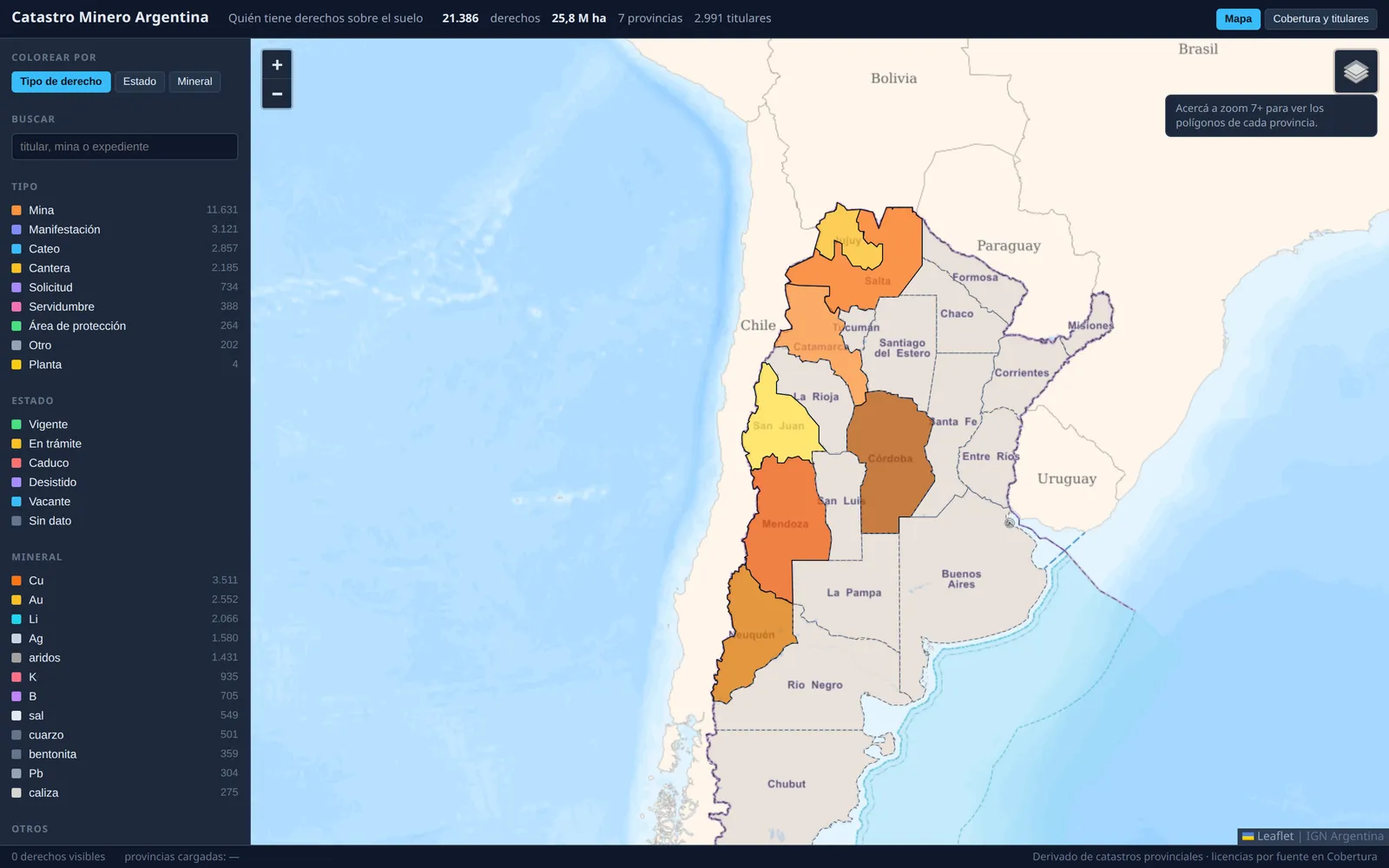
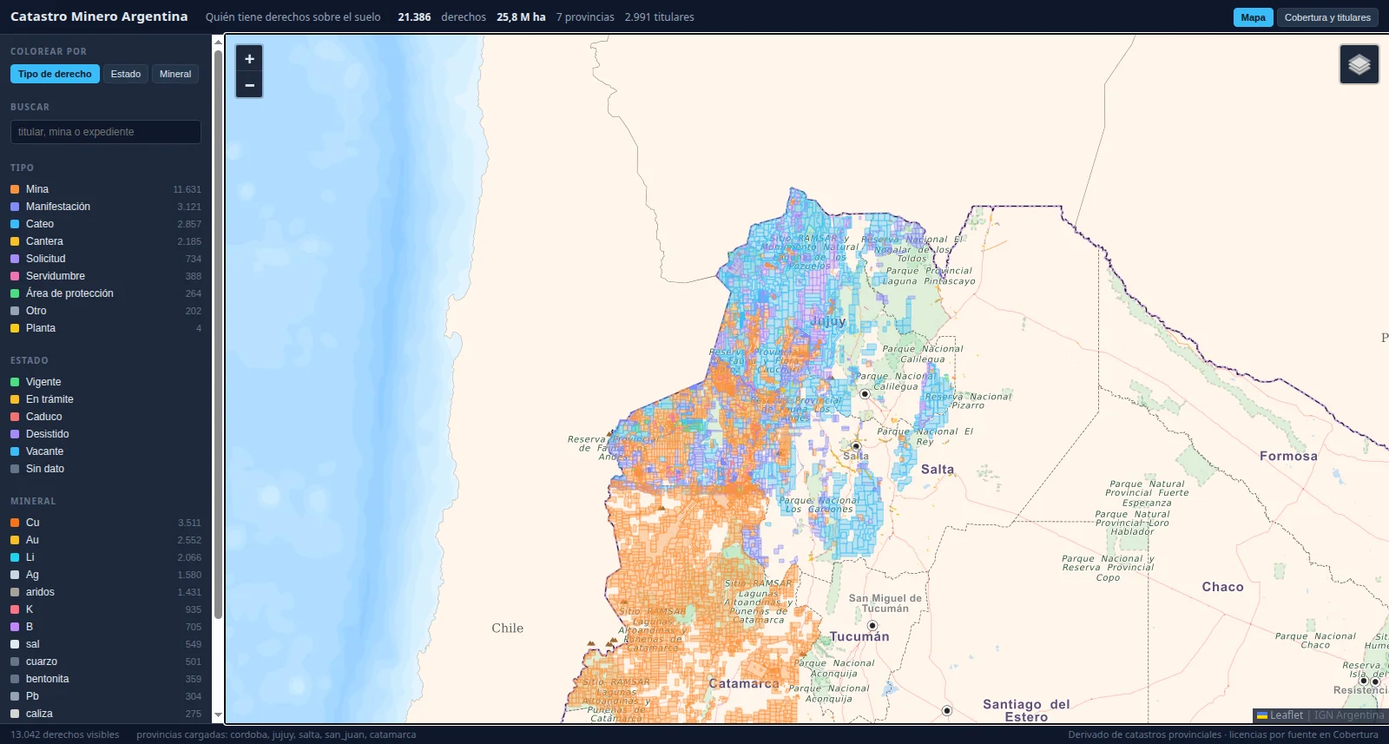
El catastro se muestra con el detalle que tiene, y con sus números de hoy
La captura pasa de la vista país sin polígonos al NOA con el detalle real
(Jujuy-Salta-Catamarca, 13,042 derechos visibles) — manejada por CDP puro
sobre el chromium cacheado, con zoom por rueda y paneo por drag. Los números
se ponen al día con la app: 7 provincias, 21,386 derechos, 25.8 M ha, 2,991
titulares (tarjeta, hero, tira de prueba del home y OG de minería).

La bio canónica suma el terreno: "cuatro de operación en Neuquén" y "lideré
equipos evaluando proyectos petroquímicos", en las 10 páginas y el canon de
la skill. Y BAISH entra a "Dónde mirar" del registro en los dos idiomas,
grupo Comunidad — la docena queda declarada.

diff --git a/src/pages/mineria.es.html b/src/pages/mineria.es.html
@@ -1,9 +1,9 @@
 <!--meta
 {
   "title": "Datos satelitales para minería — Matías Podeley",
-  "description": "Quién tiene derechos sobre el suelo en 6 provincias, blancos de exploración validados a ciegas, volumen excavado auditado por satélite y la obra de los salares de litio año por año. Cuatro casos en línea.",
+  "description": "Quién tiene derechos sobre el suelo en 7 provincias, blancos de exploración validados a ciegas, volumen excavado auditado por satélite y la obra de los salares de litio año por año. Cuatro casos en línea.",
   "ogImage": "/assets/og/mineria.es.png",
-  "ogImageAlt": "Minería: 19,671 derechos de seis provincias en un solo mapa",
+  "ogImageAlt": "Minería: 21,386 derechos de siete provincias en un solo mapa",
   "nav": "mineria"
 }
 -->
@@ -11,7 +11,7 @@
 <section class="hero wrap">
   <p class="kicker">Minería · Exploración y monitoreo · Datos satelitales</p>
   <h1>Quién tiene el suelo, dónde perforar, cuánta roca se movió</h1>
-  <p class="hero-sub">Cuatro herramientas para decidir antes de pagar: el catastro de seis provincias unificado en un mapa, blancos de exploración validados a ciegas, volumen excavado medido desde el espacio y la obra de los salares de litio año por año. Todo con el método a la vista, trazable hasta la fuente.</p>
+  <p class="hero-sub">Cuatro herramientas para decidir antes de pagar: el catastro de siete provincias unificado en un mapa, blancos de exploración validados a ciegas, volumen excavado medido desde el espacio y la obra de los salares de litio año por año. Todo con el método a la vista, trazable hasta la fuente.</p>
   <p class="hero-cta"><a class="btn btn--primary" href="mailto:matias@podeley.ar?subject=Consulta%20Miner%C3%ADa%20%E2%80%94%20podeley.ar%2Fmineria&amp;body=Hola%20Matias%2C%0A%0A">Escribime</a> <a class="link-plain" href="#casos">Ver los casos <span class="arw">↓</span></a></p>
 </section>
 
@@ -28,8 +28,8 @@
     <article class="card">
       <figure class="shot"><img src="/assets/shots/catastro-minero-argentina.webp" width="1600" height="1000" loading="lazy" decoding="async" alt="Captura: mapa nacional de derechos mineros por provincia"></figure>
       <h3><a href="https://mpodeley.github.io/catastro-minero-argentina/" target="_blank" rel="noopener">Saber quién tiene el suelo antes de mover una ficha</a></h3>
-      <p class="pitch">Argentina no tiene catastro minero nacional: cada provincia publica el suyo con formato distinto, y varias no publican nada. Esto unifica seis en un mapa — 19,671 derechos, 22 millones de hectáreas, 2,418 titulares — con el mineral y el expediente detrás de cada polígono. San Juan tiene el 66.4% de su territorio bajo derecho minero, y las provincias que no publican se dibujan como ausencia explícita, nunca como territorio libre.</p>
-      <p class="meta"><span class="proj">Catastros provinciales · 6 provincias · datos a 2026-07 · se actualiza</span><span class="tag t-status">Dataset abierto</span></p>
+      <p class="pitch">Argentina no tiene catastro minero nacional: cada provincia publica el suyo con formato distinto, y varias no publican nada. Esto unifica siete en un mapa — 21,386 derechos, 25.8 millones de hectáreas, 2,991 titulares — con el mineral y el expediente detrás de cada polígono. San Juan tiene el 66.4% de su territorio bajo derecho minero, y las provincias que no publican se dibujan como ausencia explícita, nunca como territorio libre.</p>
+      <p class="meta"><span class="proj">Catastros provinciales · 7 provincias · datos a 2026-08 · se actualiza</span><span class="tag t-status">Dataset abierto</span></p>
     </article>
 
     <article class="card">
@@ -89,7 +89,7 @@
   <div class="section-head">
     <p class="eyebrow">Quién está detrás</p>
   </div>
-  <p class="bio-text">Matías Podeley. Ingeniero del ITBA, dieciocho años en energía: simulé yacimientos gigantes como Camisea, respaldé compras de activos por más de US$ 300 millones y di clases de evaluación de proyectos durante cinco años. Estas herramientas las construyo yo, con IA y fuentes auditables; lo que mejor me sale es ponerlas a trabajar con tu equipo. Buenos Aires.</p>
+  <p class="bio-text">Matías Podeley. Ingeniero del ITBA, dieciocho años en energía: cuatro de operación en Neuquén, simulé yacimientos gigantes como Camisea, lideré equipos evaluando proyectos petroquímicos, respaldé compras de activos por más de US$ 300 millones y di clases de evaluación de proyectos durante cinco años. Estas herramientas las construyo yo, con IA y fuentes auditables; lo que mejor me sale es ponerlas a trabajar con tu equipo. Buenos Aires.</p>
   <p class="aside-link">De dónde sale que un ingeniero de petróleo mire salares: <a href="/perfil/">perfil</a>.</p>
 </section>
 

diff --git a/src/pages/mineria.en.html b/src/pages/mineria.en.html
@@ -1,9 +1,9 @@
 <!--meta
 {
   "title": "Satellite data for mining — Matías Podeley",
-  "description": "Who holds mining title across 6 provinces, blind-validated exploration targets, satellite-audited excavated volume, and lithium salar buildout year by year. Four live cases.",
+  "description": "Who holds mining title across 7 provinces, blind-validated exploration targets, satellite-audited excavated volume, and lithium salar buildout year by year. Four live cases.",
   "ogImage": "/assets/og/mineria.en.png",
-  "ogImageAlt": "Mining: 19,671 claims from six provinces in a single map",
+  "ogImageAlt": "Mining: 21,386 claims from seven provinces in a single map",
   "nav": "mineria"
 }
 -->
@@ -11,7 +11,7 @@
 <section class="hero wrap">
   <p class="kicker">Mining · Exploration &amp; monitoring · Satellite data</p>
   <h1>Who holds the ground, where to drill, how much rock moved</h1>
-  <p class="hero-sub">Four tools for deciding before you pay: the mining cadastre of six provinces unified into one map, exploration targets blind-validated against known deposits, excavated volume measured from orbit, and lithium salar buildout year by year. All with the method left in the open, traceable to the source.</p>
+  <p class="hero-sub">Four tools for deciding before you pay: the mining cadastre of seven provinces unified into one map, exploration targets blind-validated against known deposits, excavated volume measured from orbit, and lithium salar buildout year by year. All with the method left in the open, traceable to the source.</p>
   <p class="hero-cta"><a class="btn btn--primary" href="mailto:matias@podeley.ar?subject=Mining%20inquiry%20%E2%80%94%20podeley.ar%2Fmineria&amp;body=Hi%20Matias%2C%0A%0A">Email me</a> <a class="link-plain" href="#casos">See the cases <span class="arw">↓</span></a></p>
 </section>
 
@@ -28,8 +28,8 @@
     <article class="card">
       <figure class="shot"><img src="/assets/shots/catastro-minero-argentina.webp" width="1600" height="1000" loading="lazy" decoding="async" alt="Screenshot: national map of mining tenements by province"></figure>
       <h3><a href="https://mpodeley.github.io/catastro-minero-argentina/" target="_blank" rel="noopener">Know who holds the ground before making a move</a></h3>
-      <p class="pitch">Argentina has no national mining cadastre: each province publishes its own in a different format, and several publish nothing at all. This unifies six into one map — 19,671 tenements, 22 million hectares, 2,418 holders — with the mineral and the file number behind every polygon. San Juan has 66.4% of its territory under mining title, and the provinces that publish nothing are drawn as explicit absence, never as open ground.</p>
-      <p class="meta"><span class="proj">Provincial cadastres · 6 provinces · data to 2026-07 · kept current</span><span class="tag t-status">Open dataset</span></p>
+      <p class="pitch">Argentina has no national mining cadastre: each province publishes its own in a different format, and several publish nothing at all. This unifies seven into one map — 21,386 tenements, 25.8 million hectares, 2,991 holders — with the mineral and the file number behind every polygon. San Juan has 66.4% of its territory under mining title, and the provinces that publish nothing are drawn as explicit absence, never as open ground.</p>
+      <p class="meta"><span class="proj">Provincial cadastres · 7 provinces · data to 2026-08 · kept current</span><span class="tag t-status">Open dataset</span></p>
     </article>
 
     <article class="card">
@@ -89,7 +89,7 @@
   <div class="section-head">
     <p class="eyebrow">Who's behind this</p>
   </div>
-  <p class="bio-text">Matías Podeley. An ITBA engineer, eighteen years in energy: I simulated giant fields like Camisea, backed asset purchases above US$ 300 million, and taught project appraisal for five years. I build these tools myself, with AI and auditable sources; what I do best is putting them to work with your team. Buenos Aires.</p>
+  <p class="bio-text">Matías Podeley. An ITBA engineer, eighteen years in energy — four of them in operations in Neuquén: I simulated giant fields like Camisea, led teams appraising petrochemical projects, backed asset purchases above US$ 300 million, and taught project appraisal for five years. I build these tools myself, with AI and auditable sources; what I do best is putting them to work with your team. Buenos Aires.</p>
   <p class="aside-link">Why a petroleum engineer ends up looking at salars: <a href="/en/perfil/">profile</a>.</p>
 </section>
 

diff --git a/src/pages/index.es.html b/src/pages/index.es.html
@@ -10,7 +10,7 @@
 <section class="hero wrap">
   <p class="kicker"><a class="link-plain" href="/perfil/">Matías Podeley</a> · Reservorios y desarrollo de negocio · Buenos Aires</p>
   <h1>El dato oficial tarda. Vos podés medirlo hoy</h1>
-  <p class="hero-sub">Soluciones y herramientas para energía y minería: diez están en línea, construidas con IA por un ingeniero con dieciocho años adentro de la industria, sobre fuentes que tu equipo puede auditar. Qué hizo la competencia mientras el registro oficial todavía no lo dice, quién tiene el suelo en seis provincias, cómo viene la red de gas esta mañana — y de dónde sale cada número.</p>
+  <p class="hero-sub">Soluciones y herramientas para energía y minería: diez están en línea, construidas con IA por un ingeniero con dieciocho años adentro de la industria, sobre fuentes que tu equipo puede auditar. Qué hizo la competencia mientras el registro oficial todavía no lo dice, quién tiene el suelo en siete provincias, cómo viene la red de gas esta mañana — y de dónde sale cada número.</p>
   <p class="hero-cta"><a class="btn btn--primary" href="/consultoria/" data-goatcounter-click="home-a-consultoria">Cómo es trabajar conmigo</a> <a class="btn btn--outline" href="mailto:matias@podeley.ar?subject=Consulta%20%E2%80%94%20podeley.ar&amp;body=Hola%20Matias%2C%0A%0AEmpresa%20o%20activo%3A%20%0ADecisi%C3%B3n%20que%20necesito%20tomar%3A%20%0AFecha%20l%C3%ADmite%3A%20%0ADatos%20disponibles%3A%20%0A">Exploremos cómo puedo ayudarte</a> <a class="link-plain" href="#areas">Ver por área <span class="arw">↓</span></a></p>
 </section>
 
@@ -27,8 +27,8 @@
       <p>El rezago del registro oficial de producción. En esa ventana la cuenca se mueve y el Capítulo IV no lo dice — las luces nocturnas sí.</p>
     </div>
     <div class="principle">
-      <p class="fig"><a href="/mineria/">19,671 derechos</a></p>
-      <p>Los derechos mineros de seis provincias, unificados y con su expediente. El catastro nacional que no existe, en un mapa.</p>
+      <p class="fig"><a href="/mineria/">21,386 derechos</a></p>
+      <p>Los derechos mineros de siete provincias, unificados y con su expediente. El catastro nacional que no existe, en un mapa.</p>
     </div>
     <div class="principle">
       <p class="fig"><a href="/energia/">Mes a mes</a></p>
@@ -95,7 +95,7 @@
   <div class="section-head">
     <p class="eyebrow">Quién está detrás</p>
   </div>
-  <p class="bio-text">Matías Podeley. Ingeniero del ITBA, dieciocho años en energía: simulé yacimientos gigantes como Camisea, respaldé compras de activos por más de US$ 300 millones y di clases de evaluación de proyectos durante cinco años. Estas herramientas las construyo yo, con IA y fuentes auditables; lo que mejor me sale es ponerlas a trabajar con tu equipo. Buenos Aires.</p>
+  <p class="bio-text">Matías Podeley. Ingeniero del ITBA, dieciocho años en energía: cuatro de operación en Neuquén, simulé yacimientos gigantes como Camisea, lideré equipos evaluando proyectos petroquímicos, respaldé compras de activos por más de US$ 300 millones y di clases de evaluación de proyectos durante cinco años. Estas herramientas las construyo yo, con IA y fuentes auditables; lo que mejor me sale es ponerlas a trabajar con tu equipo. Buenos Aires.</p>
   <p class="aside-link">La trayectoria completa, con las empresas y los activos: <a href="/perfil/">perfil</a>.</p>
   <p class="other-line"><a href="mailto:matias@podeley.ar?subject=Consulta%20%E2%80%94%20podeley.ar&amp;body=Hola%20Matias%2C%0A%0A">¿Otro problema de datos? Escribime <span class="arw">→</span></a></p>
 </section>

diff --git a/src/pages/index.en.html b/src/pages/index.en.html
@@ -10,7 +10,7 @@
 <section class="hero wrap">
   <p class="kicker"><a class="link-plain" href="/en/perfil/">Matías Podeley</a> · Reservoir engineering &amp; business development · Buenos Aires</p>
   <h1>The official data runs late. You can measure it today</h1>
-  <p class="hero-sub">Solutions and tools for energy and mining: ten are live, built with AI by an engineer with eighteen years inside the industry, on sources your team can audit. What competitors did while the official registry still says nothing, who holds the ground across six provinces, how the gas grid looks this morning — and where every number comes from.</p>
+  <p class="hero-sub">Solutions and tools for energy and mining: ten are live, built with AI by an engineer with eighteen years inside the industry, on sources your team can audit. What competitors did while the official registry still says nothing, who holds the ground across seven provinces, how the gas grid looks this morning — and where every number comes from.</p>
   <p class="hero-cta"><a class="btn btn--primary" href="/en/consultoria/" data-goatcounter-click="home-to-consulting">How working with me goes</a> <a class="btn btn--outline" href="mailto:matias@podeley.ar?subject=Inquiry%20%E2%80%94%20podeley.ar&amp;body=Hi%20Matias%2C%0A%0ACompany%20or%20asset%3A%20%0ADecision%20at%20hand%3A%20%0ADeadline%3A%20%0AAvailable%20data%3A%20%0A">Let&#39;s explore how I can help</a> <a class="link-plain" href="#areas">Browse by area <span class="arw">↓</span></a></p>
 </section>
 
@@ -27,8 +27,8 @@
       <p>The lag of Argentina's official production registry. Inside that window the basin moves and the registry says nothing — night lights do.</p>
     </div>
     <div class="principle">
-      <p class="fig"><a href="/en/mineria/">19,671 claims</a></p>
-      <p>The mining rights of six provinces, unified and traced to their files. The national cadastre that doesn't exist, on one map.</p>
+      <p class="fig"><a href="/en/mineria/">21,386 claims</a></p>
+      <p>The mining rights of seven provinces, unified and traced to their files. The national cadastre that doesn't exist, on one map.</p>
     </div>
     <div class="principle">
       <p class="fig"><a href="/en/energia/">Month by month</a></p>
@@ -95,7 +95,7 @@
   <div class="section-head">
     <p class="eyebrow">Who is behind this</p>
   </div>
-  <p class="bio-text">Matías Podeley. An ITBA engineer, eighteen years in energy: I simulated giant fields like Camisea, backed asset purchases above US$ 300 million, and taught project appraisal for five years. I build these tools myself, with AI and auditable sources; what I do best is putting them to work with your team. Buenos Aires.</p>
+  <p class="bio-text">Matías Podeley. An ITBA engineer, eighteen years in energy — four of them in operations in Neuquén: I simulated giant fields like Camisea, led teams appraising petrochemical projects, backed asset purchases above US$ 300 million, and taught project appraisal for five years. I build these tools myself, with AI and auditable sources; what I do best is putting them to work with your team. Buenos Aires.</p>
   <p class="aside-link">The full track record, with the companies and the assets: <a href="/en/perfil/">profile</a>.</p>
   <p class="other-line"><a href="mailto:matias@podeley.ar?subject=Inquiry%20%E2%80%94%20podeley.ar&amp;body=Hi%20Matias%2C%0A%0A">A different data problem? Email me <span class="arw">→</span></a></p>
 </section>

diff --git a/src/pages/ciber.es.html b/src/pages/ciber.es.html
@@ -236,7 +236,7 @@
   <div class="section-head">
     <p class="eyebrow">Recursos</p>
     <h2>Dónde mirar, además de acá</h2>
-    <p class="intro">Once entradas, cada una con su para qué. Lo que no le sirve al lector de este registro quedó afuera — se cortaron cuatro organizaciones cuyo trabajo ciber es de membresía o no existe.</p>
+    <p class="intro">Doce entradas, cada una con su para qué. Lo que no le sirve al lector de este registro quedó afuera — se cortaron cuatro organizaciones cuyo trabajo ciber es de membresía o no existe.</p>
   </div>
 
   <p class="rsrc-g">Seguimiento y respuesta</p>
@@ -256,6 +256,11 @@
     <li><a href="https://isagca.org/isa-iec-62443-standards">ISA/IEC 62443</a>: el estándar de ciberseguridad industrial, explicado gratis por sus autores en las guías de ISAGCA; el texto completo del estándar es pago.</li>
     <li><a href="https://attack.mitre.org/matrices/ics/">MITRE ATT&amp;CK for ICS</a>: el catálogo estándar de tácticas de ataque a sistemas industriales: el vocabulario de los informes técnicos que cita este registro.</li>
     <li><a href="https://www.dragos.com/ot-cybersecurity-year-in-review">Dragos, OT Cybersecurity Report</a>: el informe anual de amenazas a sistemas industriales más citado del sector; la edición 2026 pide un mail para descargarse.</li>
+  </ul>
+
+  <p class="rsrc-g">Comunidad</p>
+  <ul class="rsrc">
+    <li><a href="https://baish.com.ar/">BAISH — Buenos Aires AI Safety Hub</a>: la comunidad de seguridad de IA de Buenos Aires; la puerta de entrada local a la disciplina que la sección de IA de este registro cruza con la energía.</li>
   </ul>
 </section>
 
@@ -278,6 +283,6 @@
   <div class="section-head">
     <p class="eyebrow">Quién está detrás</p>
   </div>
-  <p class="bio-text">Matías Podeley. Ingeniero del ITBA, dieciocho años en energía: simulé yacimientos gigantes como Camisea, respaldé compras de activos por más de US$ 300 millones y di clases de evaluación de proyectos durante cinco años. Estas herramientas las construyo yo, con IA y fuentes auditables; lo que mejor me sale es ponerlas a trabajar con tu equipo. Buenos Aires.</p>
+  <p class="bio-text">Matías Podeley. Ingeniero del ITBA, dieciocho años en energía: cuatro de operación en Neuquén, simulé yacimientos gigantes como Camisea, lideré equipos evaluando proyectos petroquímicos, respaldé compras de activos por más de US$ 300 millones y di clases de evaluación de proyectos durante cinco años. Estas herramientas las construyo yo, con IA y fuentes auditables; lo que mejor me sale es ponerlas a trabajar con tu equipo. Buenos Aires.</p>
   <p class="aside-link">La investigación en seguridad de inteligencia artificial que hay atrás de la última sección: <a href="/research/">research</a>.</p>
 </section>

diff --git a/src/pages/ciber.en.html b/src/pages/ciber.en.html
@@ -236,7 +236,7 @@
   <div class="section-head">
     <p class="eyebrow">Resources</p>
     <h2>Where to look, besides here</h2>
-    <p class="intro">Eleven entries, each with its purpose stated. Whatever does not serve a reader of this register stayed out — four organizations whose cyber work is members-only or nonexistent were cut.</p>
+    <p class="intro">Twelve entries, each with its purpose stated. Whatever does not serve a reader of this register stayed out — four organizations whose cyber work is members-only or nonexistent were cut.</p>
   </div>
 
   <p class="rsrc-g">Tracking and response</p>
@@ -256,6 +256,11 @@
     <li><a href="https://isagca.org/isa-iec-62443-standards">ISA/IEC 62443</a>: the industrial cybersecurity standard, explained for free by its authors in the ISAGCA guides; the full standard text is paid.</li>
     <li><a href="https://attack.mitre.org/matrices/ics/">MITRE ATT&amp;CK for ICS</a>: the standard catalog of attack tactics against industrial systems: the vocabulary of the technical reports this register cites.</li>
     <li><a href="https://www.dragos.com/ot-cybersecurity-year-in-review">Dragos, OT Cybersecurity Report</a>: the sector's most-cited annual report on threats to industrial systems; the 2026 edition asks for an email to download.</li>
+  </ul>
+
+  <p class="rsrc-g">Community</p>
+  <ul class="rsrc">
+    <li><a href="https://baish.com.ar/">BAISH — Buenos Aires AI Safety Hub</a>: Buenos Aires’s AI safety community; the local doorway into the discipline this register’s AI section crosses with energy.</li>
   </ul>
 </section>
 
@@ -278,6 +283,6 @@
   <div class="section-head">
     <p class="eyebrow">Who is behind this</p>
   </div>
-  <p class="bio-text">Matías Podeley. An ITBA engineer, eighteen years in energy: I simulated giant fields like Camisea, backed asset purchases above US$ 300 million, and taught project appraisal for five years. I build these tools myself, with AI and auditable sources; what I do best is putting them to work with your team. Buenos Aires.</p>
+  <p class="bio-text">Matías Podeley. An ITBA engineer, eighteen years in energy — four of them in operations in Neuquén: I simulated giant fields like Camisea, led teams appraising petrochemical projects, backed asset purchases above US$ 300 million, and taught project appraisal for five years. I build these tools myself, with AI and auditable sources; what I do best is putting them to work with your team. Buenos Aires.</p>
   <p class="aside-link">The AI-safety research behind the last section: <a href="/en/research/">research</a>.</p>
 </section>

diff --git a/src/pages/energia.es.html b/src/pages/energia.es.html
@@ -73,7 +73,7 @@
   <div class="section-head">
     <p class="eyebrow">Quién está detrás</p>
   </div>
-  <p class="bio-text">Matías Podeley. Ingeniero del ITBA, dieciocho años en energía: simulé yacimientos gigantes como Camisea, respaldé compras de activos por más de US$ 300 millones y di clases de evaluación de proyectos durante cinco años. Estas herramientas las construyo yo, con IA y fuentes auditables; lo que mejor me sale es ponerlas a trabajar con tu equipo. Buenos Aires.</p>
+  <p class="bio-text">Matías Podeley. Ingeniero del ITBA, dieciocho años en energía: cuatro de operación en Neuquén, simulé yacimientos gigantes como Camisea, lideré equipos evaluando proyectos petroquímicos, respaldé compras de activos por más de US$ 300 millones y di clases de evaluación de proyectos durante cinco años. Estas herramientas las construyo yo, con IA y fuentes auditables; lo que mejor me sale es ponerlas a trabajar con tu equipo. Buenos Aires.</p>
   <p class="aside-link">Mi experiencia en operadoras, de la valuación de activos a la comercialización: <a href="/perfil/">perfil</a>.</p>
   <p class="aside-link">Aparte de las herramientas, un registro abierto: <a href="/ciber/">los catorce ciberincidentes conocidos del sector energético argentino</a>, con la fuente de cada fila.</p>
 </section>

diff --git a/src/pages/energia.en.html b/src/pages/energia.en.html
@@ -73,7 +73,7 @@
   <div class="section-head">
     <p class="eyebrow">Who's behind this</p>
   </div>
-  <p class="bio-text">Matías Podeley. An ITBA engineer, eighteen years in energy: I simulated giant fields like Camisea, backed asset purchases above US$ 300 million, and taught project appraisal for five years. I build these tools myself, with AI and auditable sources; what I do best is putting them to work with your team. Buenos Aires.</p>
+  <p class="bio-text">Matías Podeley. An ITBA engineer, eighteen years in energy — four of them in operations in Neuquén: I simulated giant fields like Camisea, led teams appraising petrochemical projects, backed asset purchases above US$ 300 million, and taught project appraisal for five years. I build these tools myself, with AI and auditable sources; what I do best is putting them to work with your team. Buenos Aires.</p>
   <p class="aside-link">My experience at operating companies, from asset valuation to commercial roles: <a href="/en/perfil/">profile</a>.</p>
   <p class="aside-link">Besides the tools, an open register: <a href="/en/ciber/">the fourteen known cyber incidents in Argentine energy</a>, sourced row by row.</p>
 </section>

diff --git a/src/pages/ep.es.html b/src/pages/ep.es.html
@@ -89,7 +89,7 @@
   <div class="section-head">
     <p class="eyebrow">Quién está detrás</p>
   </div>
-  <p class="bio-text">Matías Podeley. Ingeniero del ITBA, dieciocho años en energía: simulé yacimientos gigantes como Camisea, respaldé compras de activos por más de US$ 300 millones y di clases de evaluación de proyectos durante cinco años. Estas herramientas las construyo yo, con IA y fuentes auditables; lo que mejor me sale es ponerlas a trabajar con tu equipo. Buenos Aires.</p>
+  <p class="bio-text">Matías Podeley. Ingeniero del ITBA, dieciocho años en energía: cuatro de operación en Neuquén, simulé yacimientos gigantes como Camisea, lideré equipos evaluando proyectos petroquímicos, respaldé compras de activos por más de US$ 300 millones y di clases de evaluación de proyectos durante cinco años. Estas herramientas las construyo yo, con IA y fuentes auditables; lo que mejor me sale es ponerlas a trabajar con tu equipo. Buenos Aires.</p>
   <p class="aside-link">Dieciocho años de reservorios y desarrollo, con los campos por nombre: <a href="/perfil/">perfil</a>.</p>
 </section>
 

diff --git a/src/pages/ep.en.html b/src/pages/ep.en.html
@@ -89,7 +89,7 @@
   <div class="section-head">
     <p class="eyebrow">Who's behind this</p>
   </div>
-  <p class="bio-text">Matías Podeley. An ITBA engineer, eighteen years in energy: I simulated giant fields like Camisea, backed asset purchases above US$ 300 million, and taught project appraisal for five years. I build these tools myself, with AI and auditable sources; what I do best is putting them to work with your team. Buenos Aires.</p>
+  <p class="bio-text">Matías Podeley. An ITBA engineer, eighteen years in energy — four of them in operations in Neuquén: I simulated giant fields like Camisea, led teams appraising petrochemical projects, backed asset purchases above US$ 300 million, and taught project appraisal for five years. I build these tools myself, with AI and auditable sources; what I do best is putting them to work with your team. Buenos Aires.</p>
   <p class="aside-link">Eighteen years of reservoirs and development, with the fields named: <a href="/en/perfil/">profile</a>.</p>
 </section>
 
